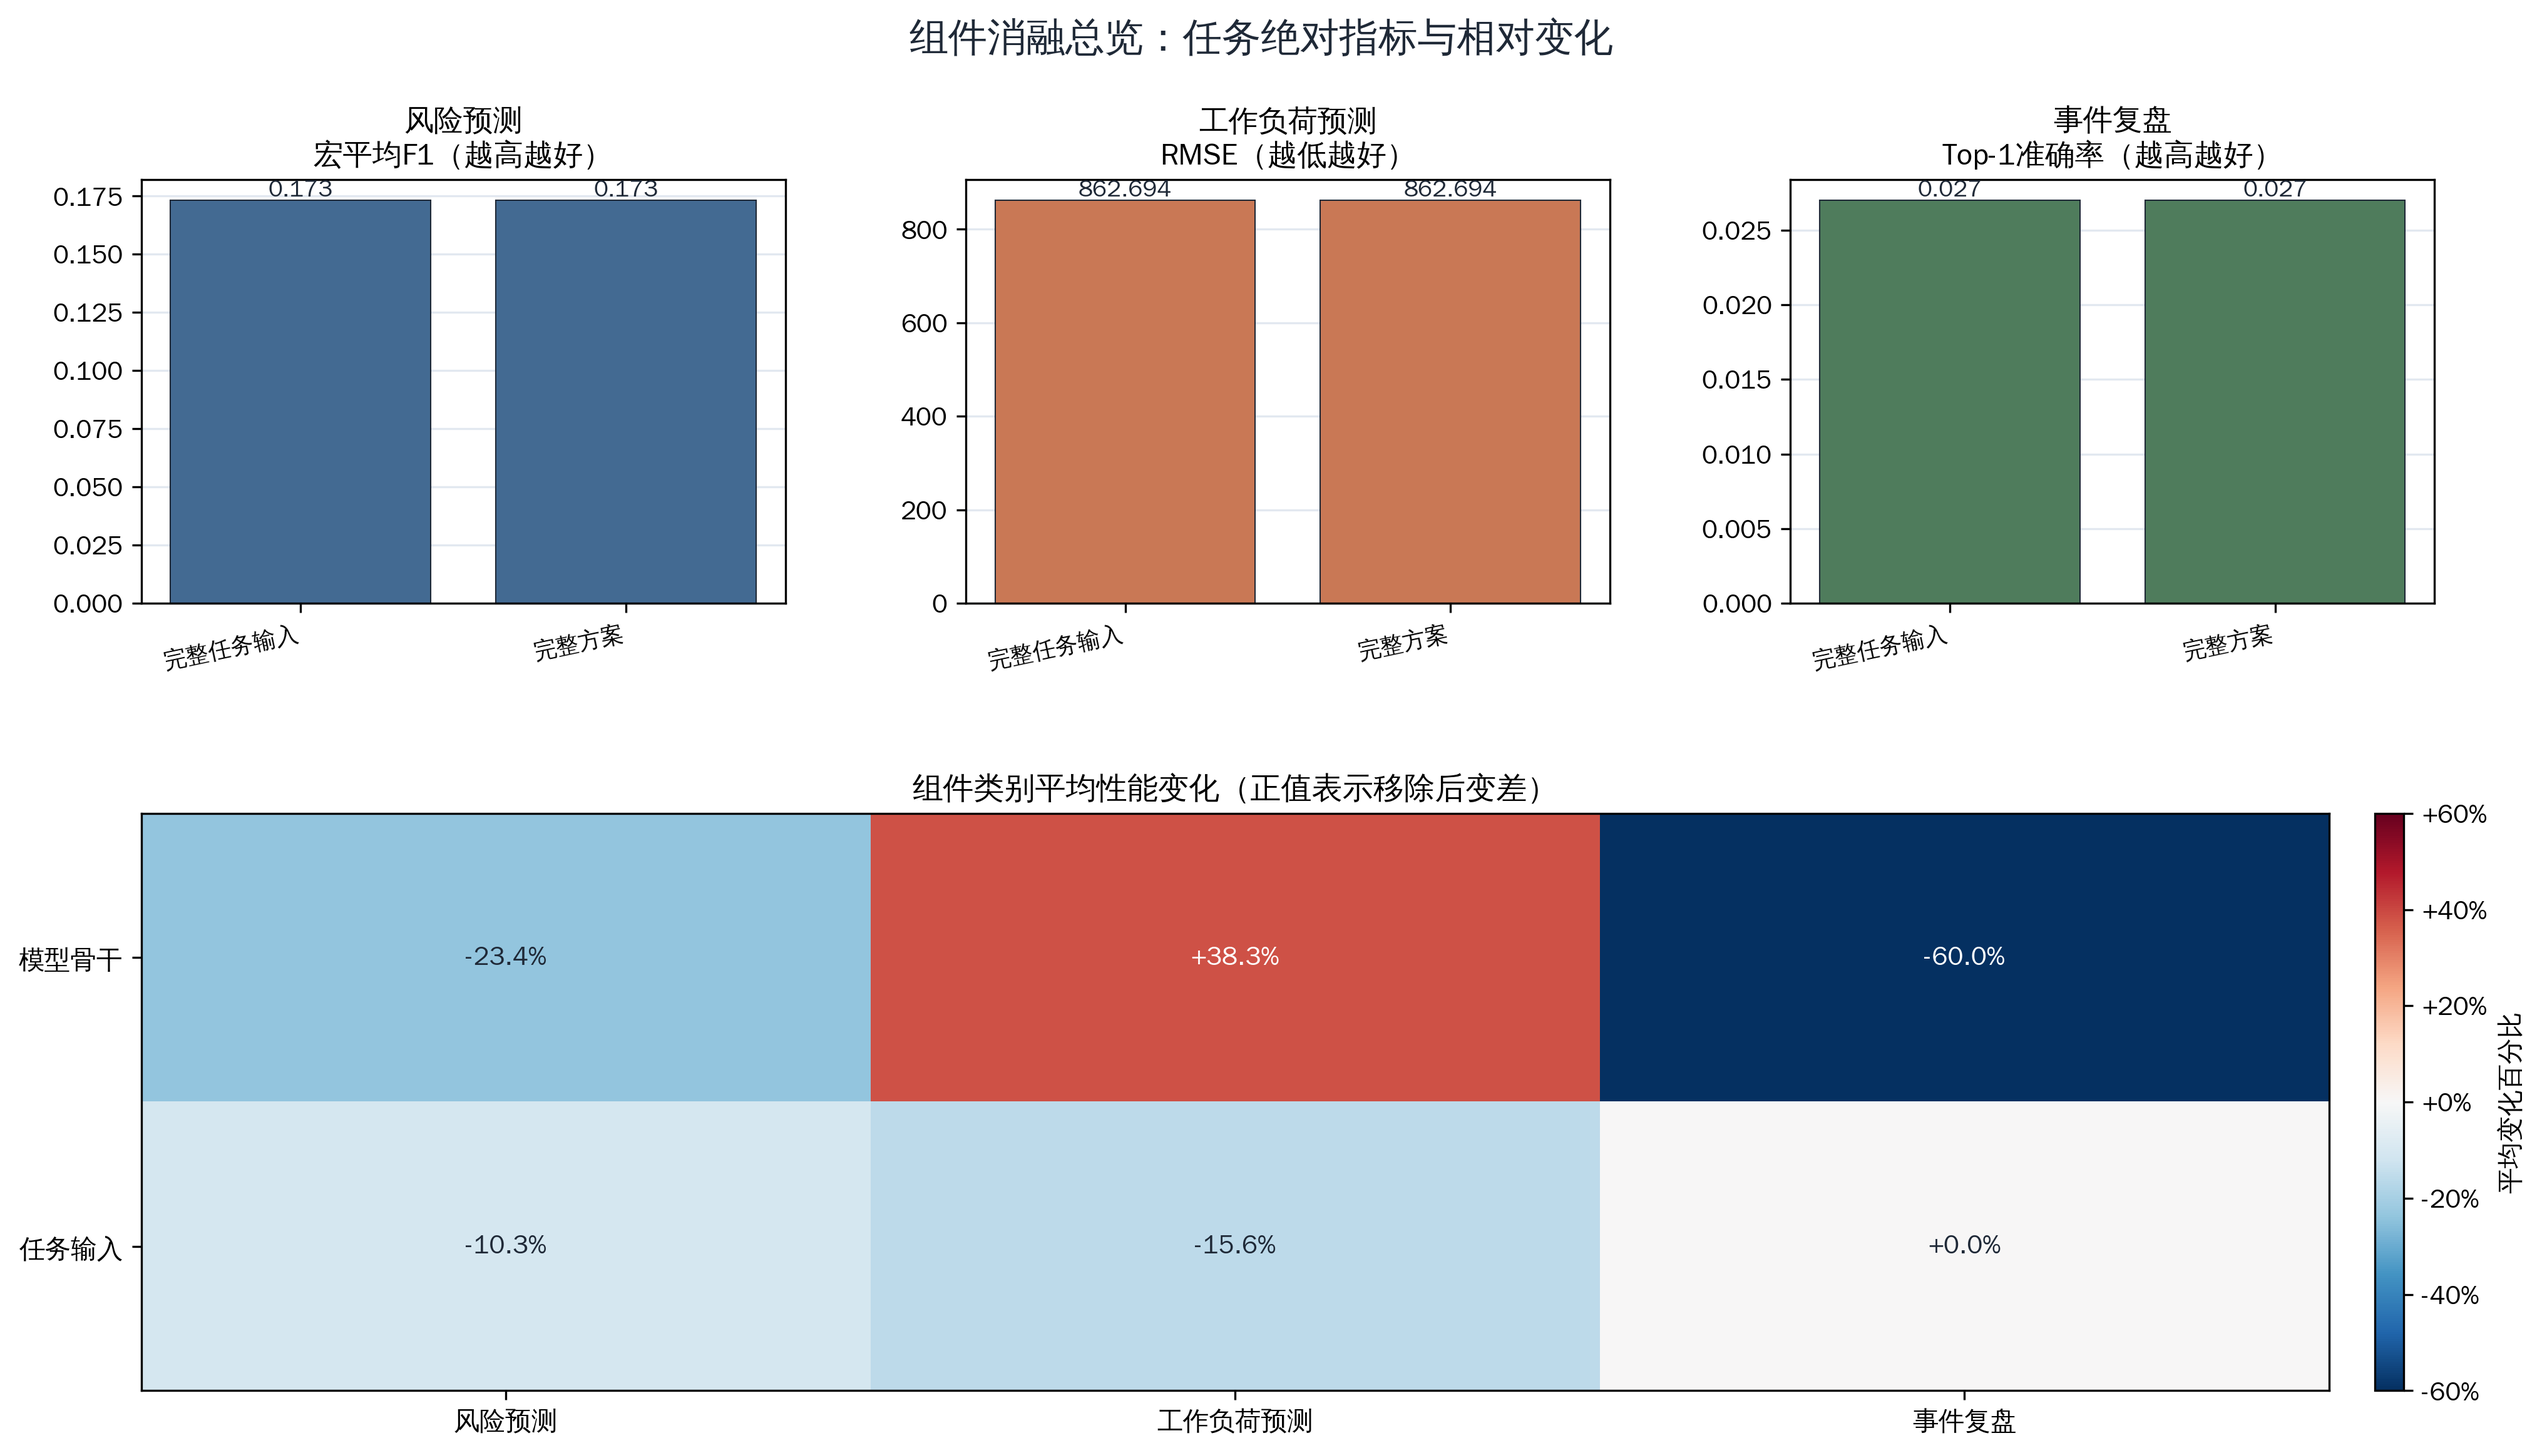
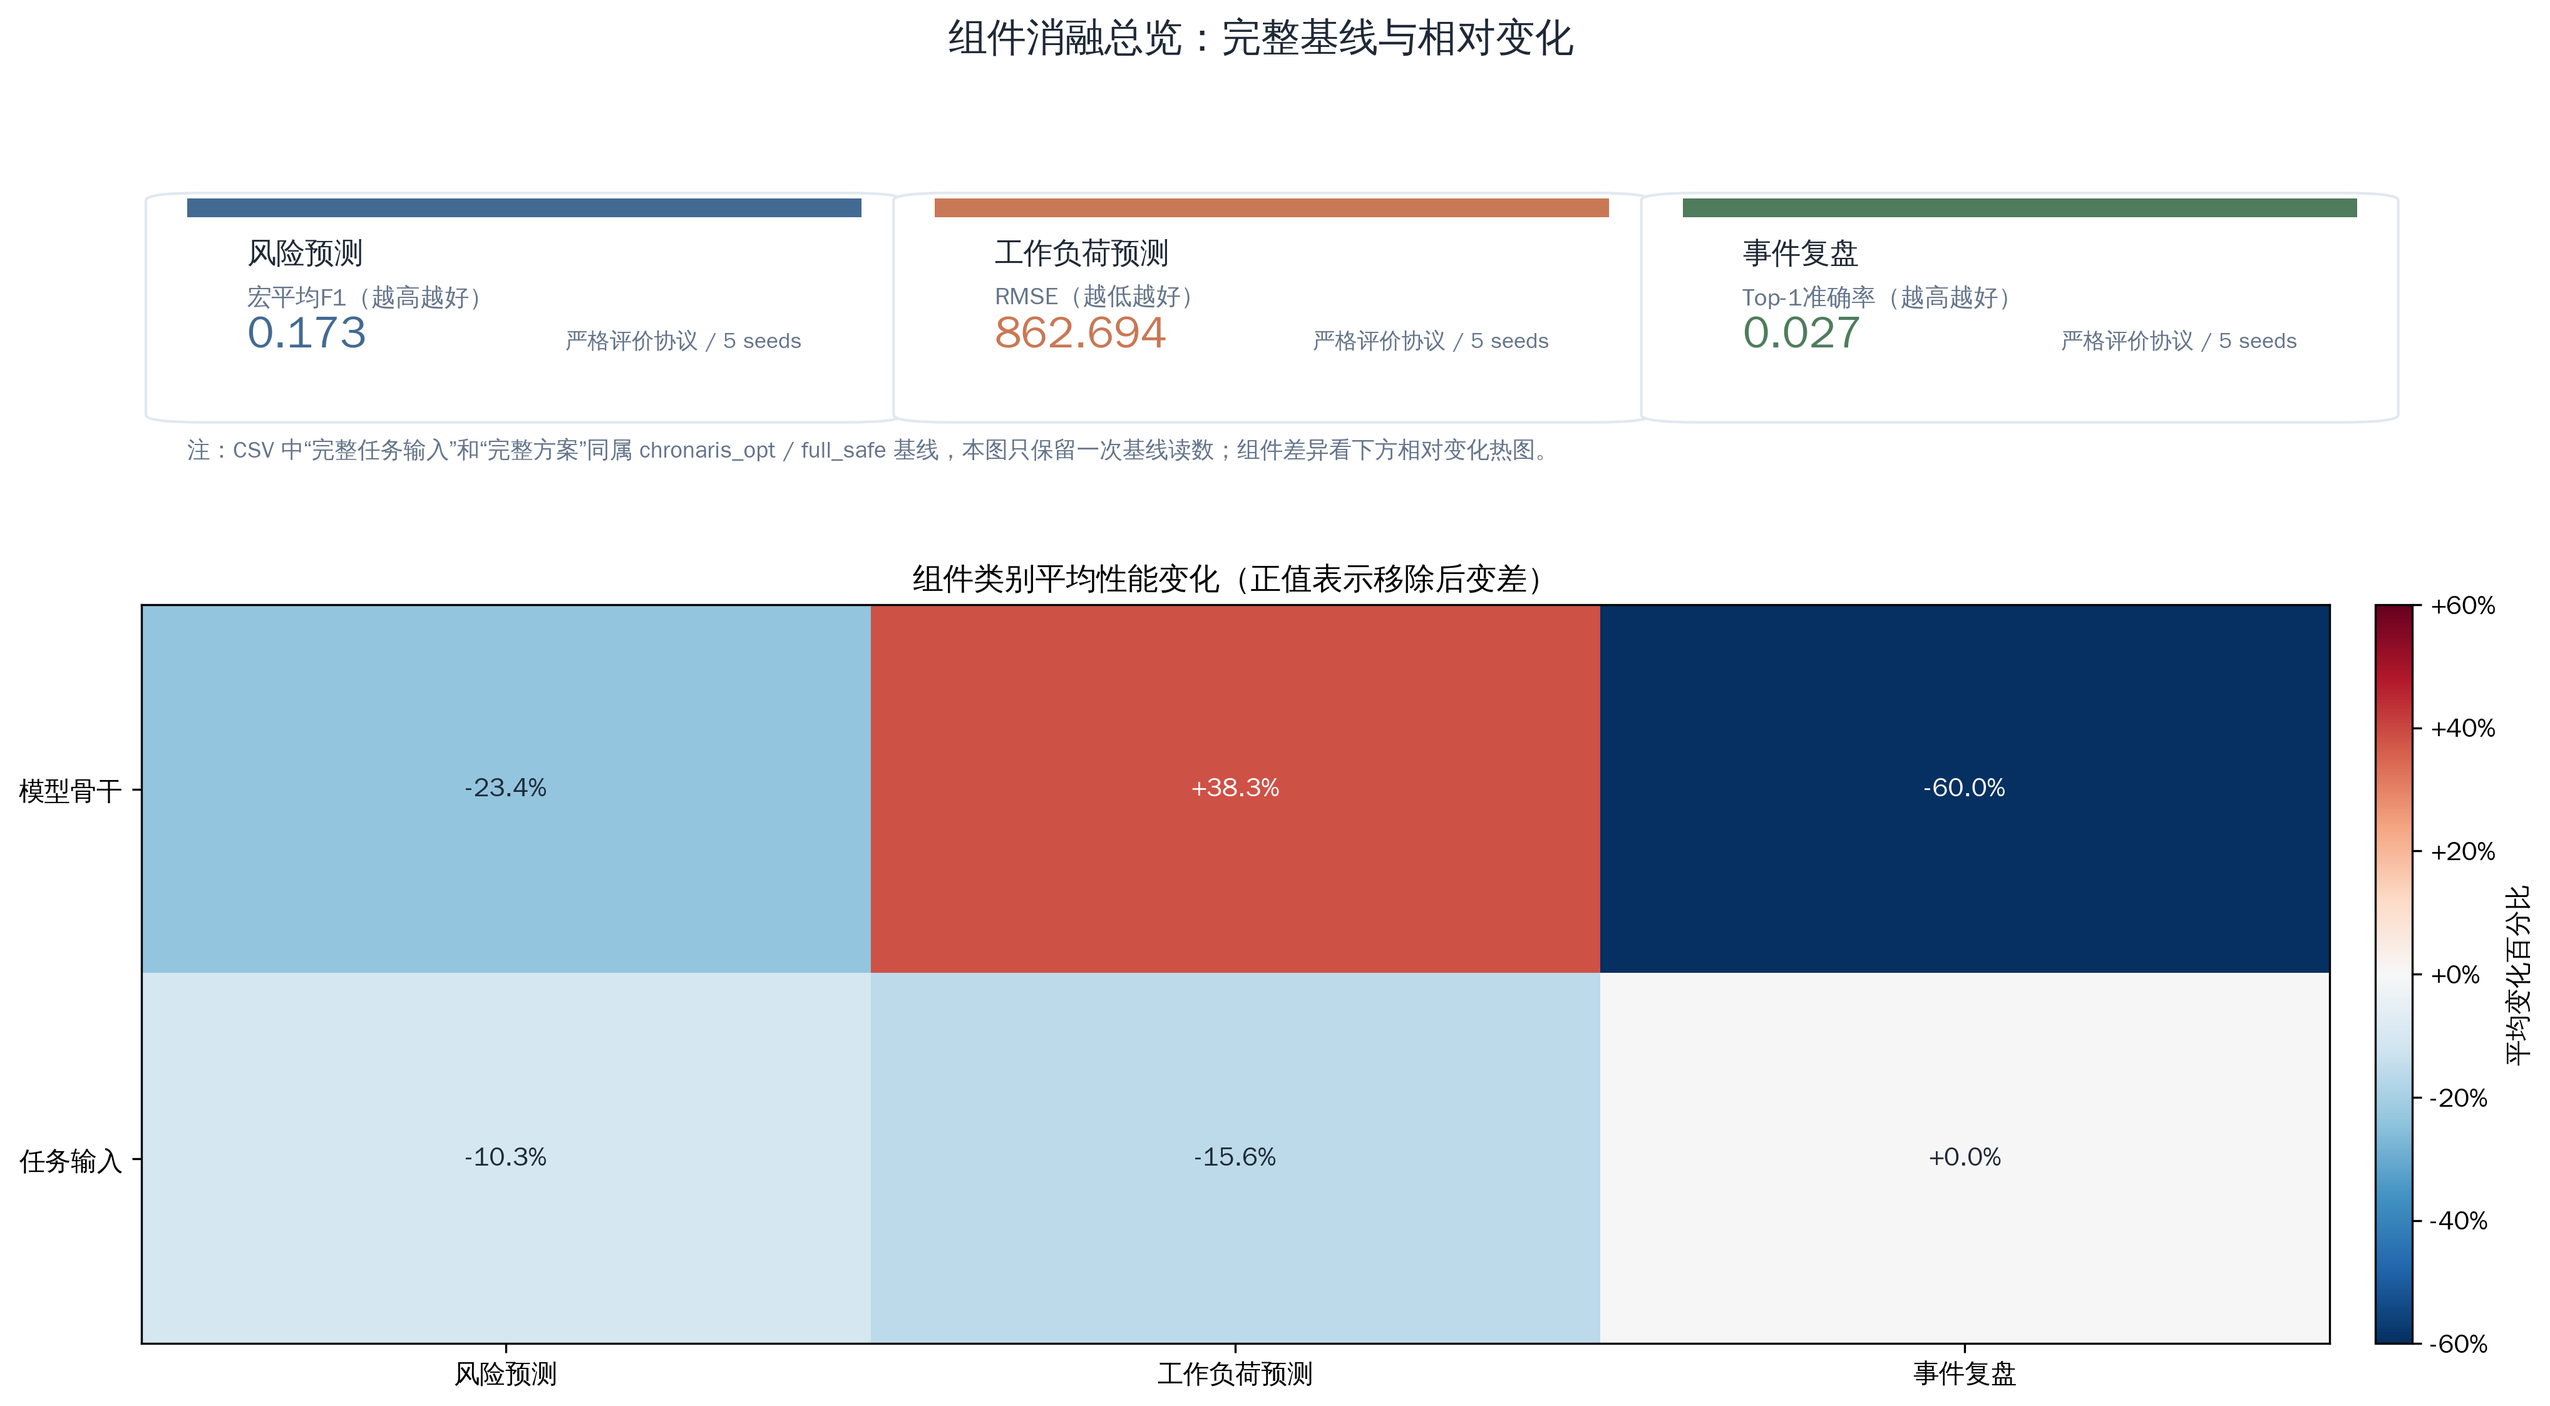
[DOC]update component pic

diff --git a/src/chronaris/pipelines/stage_i/evidence/thesis_materials_figures.py b/src/chronaris/pipelines/stage_i/evidence/thesis_materials_figures.py
@@ -649,37 +649,89 @@ def _plot_weak_label_sweep(path: Path, sources, font, table_paths):
 
 def _plot_private_component(path: Path, sources, font, table_paths):
     frame = pd.DataFrame(build_private_component_rows(sources))
-    plt, _ = _import_matplotlib(font)
-    fig = plt.figure(figsize=(14.2, 8.6))
-    grid = fig.add_gridspec(2, 3, height_ratios=[0.88, 1.2], hspace=0.42, wspace=0.28)
+    plt, patches = _import_matplotlib(font)
+    fig = plt.figure(figsize=(14.2, 8.3))
+    grid = fig.add_gridspec(2, 1, height_ratios=[0.48, 1.2], hspace=0.26)
     tasks = [
         ("T1_maneuver_intensity_class", "macro_f1", "宏平均F1", "越高越好", BLUE),
         ("T2_next_window_physiology_response", "rmse", "RMSE", "越低越好", ORANGE),
         ("T3_paired_pilot_window_retrieval", "top1_accuracy", "Top-1准确率", "越高越好", GREEN),
     ]
-    for idx, (task, metric_name, metric_cn, direction, color) in enumerate(tasks):
-        ax = fig.add_subplot(grid[0, idx])
+    ax_cards = fig.add_subplot(grid[0])
+    ax_cards.set_axis_off()
+    ax_cards.set_xlim(0, 1)
+    ax_cards.set_ylim(0, 1)
+    full_candidate_note = False
+    card_rows = []
+    for task, metric_name, metric_cn, direction, color in tasks:
         task_rows = frame.loc[(frame["task_name"] == task) & (frame["primary_metric_name"] == metric_name)].copy()
         full_rows = task_rows.loc[task_rows["variant_role"] == "full_candidate"].copy()
         if full_rows.empty:
             full_rows = task_rows.head(1)
-        full_rows = full_rows.sort_values("variant_name", key=lambda col: col.map(_variant_sort_key))
-        labels = [str(row.get("display_variant_cn") or row.get("display_variant")) for row in full_rows.to_dict(orient="records")]
-        values = [float(value) for value in full_rows["primary_metric_value"].tolist()]
-        bars = ax.bar(labels, values, color=color, edgecolor=INK, linewidth=0.5)
-        ax.set_title(f"{_task_label_cn(task)}\n{metric_cn}（{direction}）", fontsize=11.4, weight="bold")
-        ax.grid(axis="y", color=GRID, lw=0.8)
-        ax.set_axisbelow(True)
-        for tick in ax.get_xticklabels():
-            tick.set_fontsize(8.8)
-            tick.set_rotation(12)
-            tick.set_ha("right")
-        for bar, value in zip(bars, values, strict=True):
-            ax.text(bar.get_x() + bar.get_width() / 2, bar.get_height(), _fmt_metric(value, digits=3), ha="center", va="bottom", fontsize=9.2, color=INK)
-    ax_heat = fig.add_subplot(grid[1, :])
+        full_candidate_note = full_candidate_note or (
+            len(full_rows) > 1 and full_rows["primary_metric_value"].nunique(dropna=False) == 1
+        )
+        preferred_rows = full_rows.loc[full_rows["variant_name"] == "full_model"]
+        baseline_row = preferred_rows.iloc[0] if not preferred_rows.empty else full_rows.iloc[0]
+        card_rows.append(
+            {
+                "task": _task_label_cn(task),
+                "metric": f"{metric_cn}（{direction}）",
+                "value": _fmt_metric(float(baseline_row["primary_metric_value"]), digits=3),
+                "protocol": str(baseline_row.get("report_protocol_cn") or "严格评价协议"),
+                "seed_count": baseline_row.get("seed_count"),
+                "color": color,
+            }
+        )
+    for idx, card in enumerate(card_rows):
+        x = 0.02 + idx * 0.326
+        y = 0.18
+        w = 0.294
+        h = 0.74
+        color = str(card["color"])
+        ax_cards.add_patch(
+            patches.FancyBboxPatch(
+                (x, y),
+                w,
+                h,
+                boxstyle="round,pad=0.018,rounding_size=0.025",
+                facecolor="#ffffff",
+                edgecolor=GRID,
+                lw=1.0,
+            )
+        )
+        ax_cards.add_patch(patches.Rectangle((x, y + h - 0.065), w, 0.065, facecolor=color, edgecolor="none"))
+        ax_cards.text(x + 0.026, y + h - 0.14, str(card["task"]), fontsize=11.2, weight="bold", color=INK, va="top")
+        ax_cards.text(x + 0.026, y + h - 0.29, str(card["metric"]), fontsize=9.4, color=MUTED, va="top")
+        ax_cards.text(x + 0.026, y + 0.21, str(card["value"]), fontsize=17.0, weight="bold", color=color, va="bottom")
+        seed_count = card.get("seed_count")
+        seed_text = f"{int(seed_count)} seeds" if pd.notna(seed_count) else "seed count NA"
+        ax_cards.text(
+            x + w - 0.026,
+            y + 0.22,
+            _label(font, f"{card['protocol']} / {seed_text}", f"{card['protocol']} / {seed_text}"),
+            fontsize=8.5,
+            color=MUTED,
+            ha="right",
+            va="bottom",
+        )
+    if full_candidate_note:
+        ax_cards.text(
+            0.02,
+            0.03,
+            _label(
+                font,
+                "注：CSV 中“完整任务输入”和“完整方案”同属 chronaris_opt / full_safe 基线，本图只保留一次基线读数；组件差异看下方相对变化热图。",
+                "Note: full task input and full model are the same chronaris_opt / full_safe baseline; only one baseline readout is kept here.",
+            ),
+            fontsize=8.8,
+            color=MUTED,
+            va="bottom",
+        )
+    ax_heat = fig.add_subplot(grid[1])
     _draw_component_overview_heatmap(ax_heat, frame, font)
-    fig.suptitle(_label(font, "组件消融总览：任务绝对指标与相对变化", "Component ablation overview"), fontsize=15, weight="bold", color=INK)
-    fig.subplots_adjust(top=0.88, bottom=0.13, left=0.08, right=0.94, hspace=0.52, wspace=0.28)
+    fig.suptitle(_label(font, "组件消融总览：完整基线与相对变化", "Component ablation overview"), fontsize=15, weight="bold", color=INK)
+    fig.subplots_adjust(top=0.88, bottom=0.13, left=0.08, right=0.94, hspace=0.26)
     fig.savefig(path, dpi=300, bbox_inches="tight")
     plt.close(fig)
     return _figure_entry(
@@ -690,7 +742,7 @@ def _plot_private_component(path: Path, sources, font, table_paths):
         table_path=table_paths["chronaris_opt_component_ablation"],
         metric_definition="Task absolute metrics are shown on native scales; relative component changes are centered at zero with positive values meaning worse performance after removal.",
         recommended_placement="supporting_overview",
-        replaces_problem="mixed-unit dense component bars are replaced by task absolute metrics and a compact signed relative-change overview.",
+        replaces_problem="redundant full-candidate bars are replaced by baseline metric cards and a compact signed relative-change overview.",
         min_font_pt=8.8,
     )
 

diff --git a/docs/artifacts/stage_i/stage-i-thesis-materials-20260621T-stage-i-thesis-materials-r6-report-figure-polish.md b/docs/artifacts/stage_i/stage-i-thesis-materials-20260621T-stage-i-thesis-materials-r6-report-figure-polish.md
@@ -22,7 +22,7 @@
 | `runtime_semantic_case` | `docs/artifacts/assets/stage_i_thesis_figures/20260621T-stage-i-thesis-materials-r6-report-figure-polish/runtime_semantic_case.png` | `docs/artifacts/assets/stage_i_thesis_figures/20260621T-stage-i-thesis-materials-r6-report-figure-polish/runtime_semantic_case.csv` | uses a compact selected-window axis and replaces near-flat/repeated attribution bars with case-level semantic attribution and task-output ranges. |
 | `rigid_body_rotation_audit` | `docs/artifacts/assets/stage_i_thesis_figures/20260621T-stage-i-thesis-materials-r6-report-figure-polish/rigid_body_rotation_audit.png` | `docs/artifacts/assets/stage_i_thesis_figures/20260621T-stage-i-thesis-materials-r6-report-figure-polish/rigid_body_rotation_audit.csv` | rotation rate absence is shown as a matrix, not empty bars. |
 | `weak_label_sweep_ablation` | `docs/artifacts/assets/stage_i_thesis_figures/20260621T-stage-i-thesis-materials-r6-report-figure-polish/weak_label_sweep_ablation.png` | `docs/artifacts/assets/stage_i_thesis_figures/20260621T-stage-i-thesis-materials-r6-report-figure-polish/weak_label_sweep_ablation.csv` | weak-label sweep uses a lag-window trend plus task-record coverage instead of a repeated heatmap. |
-| `chronaris_opt_component_ablation` | `docs/artifacts/assets/stage_i_thesis_figures/20260621T-stage-i-thesis-materials-r6-report-figure-polish/chronaris_opt_component_ablation.png` | `docs/artifacts/assets/stage_i_thesis_figures/20260621T-stage-i-thesis-materials-r6-report-figure-polish/chronaris_opt_component_ablation.csv` | mixed-unit dense component bars are replaced by task absolute metrics and a compact signed relative-change overview. |
+| `chronaris_opt_component_ablation` | `docs/artifacts/assets/stage_i_thesis_figures/20260621T-stage-i-thesis-materials-r6-report-figure-polish/chronaris_opt_component_ablation.png` | `docs/artifacts/assets/stage_i_thesis_figures/20260621T-stage-i-thesis-materials-r6-report-figure-polish/chronaris_opt_component_ablation.csv` | redundant full-candidate bars are replaced by baseline metric cards and a compact signed relative-change overview. |
 | `model_backbone_ablation` | `docs/artifacts/assets/stage_i_thesis_figures/20260621T-stage-i-thesis-materials-r6-report-figure-polish/model_backbone_ablation.png` | `docs/artifacts/assets/stage_i_thesis_figures/20260621T-stage-i-thesis-materials-r6-report-figure-polish/model_backbone_ablation.csv` | model_backbone_ablation uses full task names, full model first, and a zero-centered diverging heatmap. |
 | `task_adapter_ablation` | `docs/artifacts/assets/stage_i_thesis_figures/20260621T-stage-i-thesis-materials-r6-report-figure-polish/task_adapter_ablation.png` | `docs/artifacts/assets/stage_i_thesis_figures/20260621T-stage-i-thesis-materials-r6-report-figure-polish/task_adapter_ablation.csv` | task_adapter_ablation uses readable task-input labels and a zero-centered diverging heatmap. |
 | `public_transfer_boundary` | `docs/artifacts/assets/stage_i_thesis_figures/20260621T-stage-i-thesis-materials-r6-report-figure-polish/public_transfer_boundary.png` | `docs/artifacts/assets/stage_i_thesis_figures/20260621T-stage-i-thesis-materials-r6-report-figure-polish/public_transfer_boundary.csv` | defensive boundary copy is replaced by positive Chinese role wording. |
